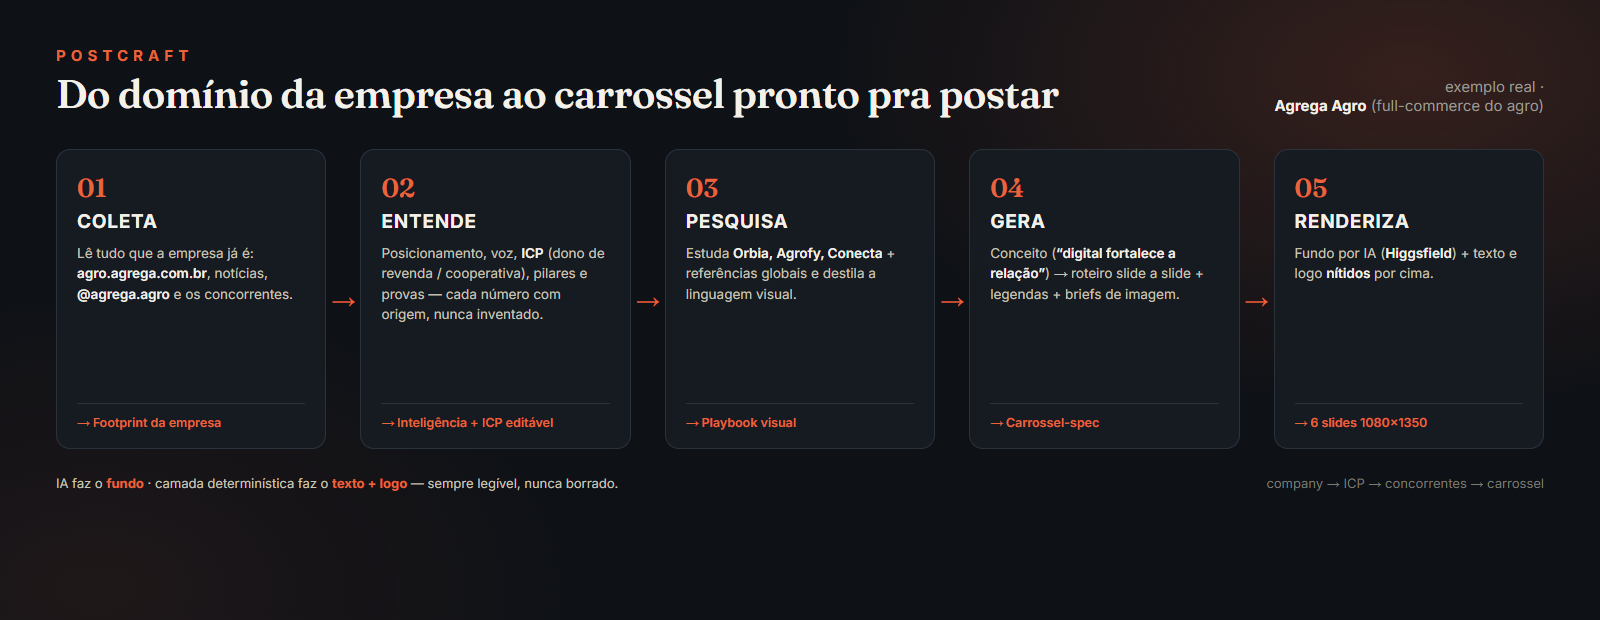
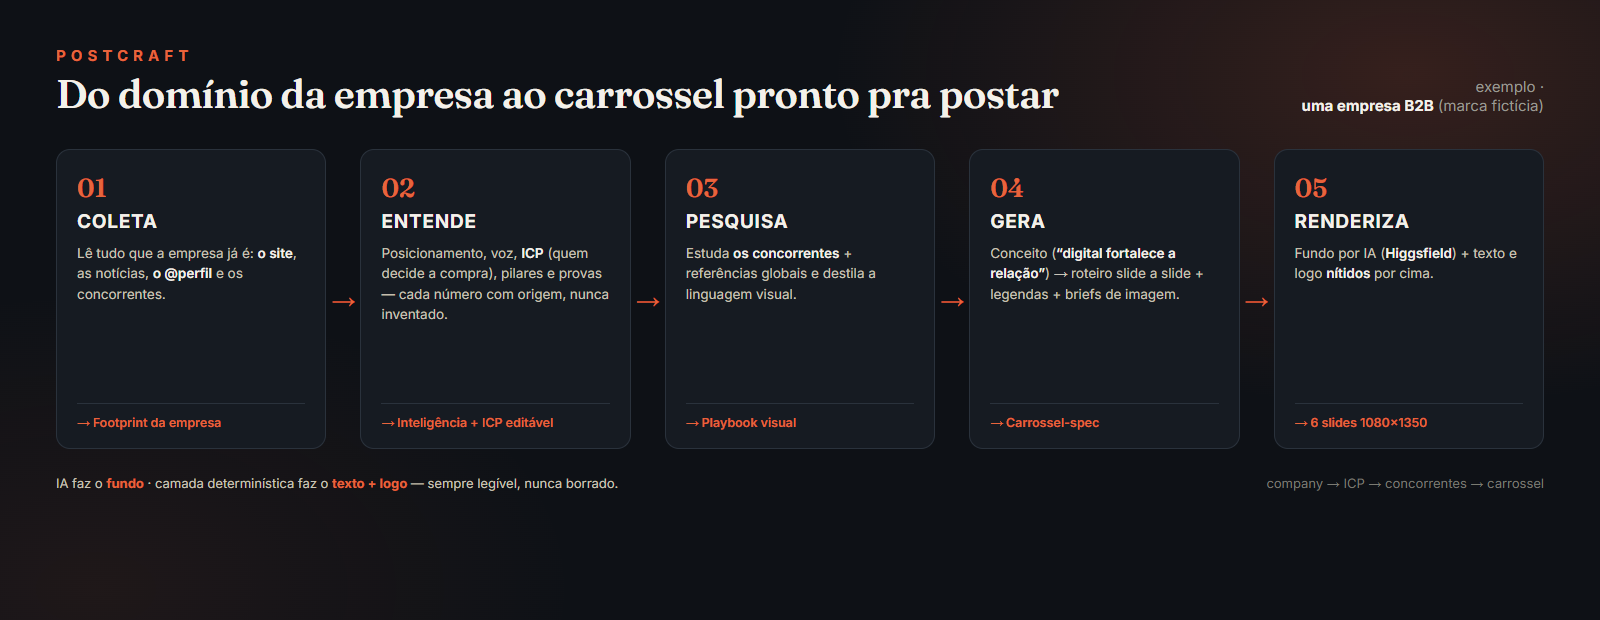
chore: de-brand example — marca fictícia (Campo Vivo) no lugar do cliente real; remove Agrega/Luft do repo público
- examples/demo.spec.json (genérico) substitui agrega-agro.spec.json
- samples + capa-fluxograma regenerados sem marca/logo do cliente
- README/landing/skill/docs genericizados

diff --git a/docs/_flow.html b/docs/_flow.html
@@ -28,25 +28,25 @@
       <div class="kick">POSTCRAFT</div>
       <h1>Do domínio da empresa ao carrossel pronto pra postar</h1>
     </div>
-    <div class="ex">exemplo real ·<br><b>Agrega Agro</b> (full-commerce do agro)</div>
+    <div class="ex">exemplo ·<br><b>uma empresa B2B</b> (marca fictícia)</div>
   </div>
 
   <div class="flow">
     <div class="card">
       <div class="num">01</div><div class="stage">COLETA</div>
-      <div class="desc">Lê tudo que a empresa já é: <b>agro.agrega.com.br</b>, notícias, <b>@agrega.agro</b> e os concorrentes.</div>
+      <div class="desc">Lê tudo que a empresa já é: <b>o site</b>, as notícias, <b>o @perfil</b> e os concorrentes.</div>
       <div class="out">→ Footprint da empresa</div>
     </div>
     <div class="arrow">→</div>
     <div class="card">
       <div class="num">02</div><div class="stage">ENTENDE</div>
-      <div class="desc">Posicionamento, voz, <b>ICP</b> (dono de revenda / cooperativa), pilares e provas — cada número com origem, nunca inventado.</div>
+      <div class="desc">Posicionamento, voz, <b>ICP</b> (quem decide a compra), pilares e provas — cada número com origem, nunca inventado.</div>
       <div class="out">→ Inteligência + ICP editável</div>
     </div>
     <div class="arrow">→</div>
     <div class="card">
       <div class="num">03</div><div class="stage">PESQUISA</div>
-      <div class="desc">Estuda <b>Orbia, Agrofy, Conecta</b> + referências globais e destila a linguagem visual.</div>
+      <div class="desc">Estuda <b>os concorrentes</b> + referências globais e destila a linguagem visual.</div>
       <div class="out">→ Playbook visual</div>
     </div>
     <div class="arrow">→</div>

diff --git a/landing/index.html b/landing/index.html
@@ -335,7 +335,7 @@
 <section class="gallery" id="exemplos"><div class="wrap">
   <div class="kicker eyebrow">Saída real do motor</div>
   <h2>Carrosséis gerados de ponta a ponta — não mockups.</h2>
-  <p class="sub">Caso real: <b>Agrega Agro</b> (full-commerce do agronegócio). A partir do site, do ICP e dos concorrentes — cada slide com uma ideia e uma anatomia própria.</p>
+  <p class="sub">Caso real: <b>Campo Vivo</b> (full-commerce do agronegócio). A partir do site, do ICP e dos concorrentes — cada slide com uma ideia e uma anatomia própria.</p>
   <div class="grid-imgs">
     <img src="assets/sample-cover.png" alt="Capa" />
     <img src="assets/sample-mirror.png" alt="Problema" />

diff --git a/src/carousel/grammar.ts b/src/carousel/grammar.ts
@@ -1,7 +1,7 @@
 /**
  * Carousel grammar — the visual IP, generalized.
  *
- * The agrega-content-engine proved 6 fixed slide anatomies (capa, espelho,
+ * The o motor predecessor proved 6 fixed slide anatomies (capa, espelho,
  * checklist, stat, quote, cta). This file lifts that into a reusable registry
  * of slide ARCHETYPES plus NARRATIVE RECIPES (ordered archetype sequences for
  * common post shapes). The GENERATE stage picks a recipe and fills each

diff --git a/src/prompts/generate.ts b/src/prompts/generate.ts
@@ -5,7 +5,7 @@
  *  2) buildCarouselPrompt  → one CarouselSpec for a chosen concept, with
  *     per-slide archetypes + filled slots + per-slide image briefs.
  *
- * Encodes the agrega-content-engine laws, generalized:
+ * Encodes the o motor predecessor laws, generalized:
  *  - Cover must "para-scroll" (entertain/prove, not a lukewarm fact).
  *  - The middle must INFORM; every strong claim anchors to a proof asset, else
  *    it's just opinion. No fabricated numbers — only use intel.proofAssets.

diff --git a/src/prompts/understand.ts b/src/prompts/understand.ts
@@ -2,7 +2,7 @@
  * UNDERSTAND prompt — turns a raw company footprint into actionable
  * BrandIntelligence: positioning, voice, ICP(s), content pillars, proof assets.
  *
- * Encodes the hard-won rules from agrega-content-engine, generalized:
+ * Encodes the hard-won rules from o motor predecessor, generalized:
  *  - ICP "verbatim terms": the exact phrases the buyer types/searches.
  *  - Proof provenance classes — never fabricate a number; classify every claim.
  *  - The inform/entertain/prove value axis attached to each pillar.

diff --git a/docs/RESEARCH.md b/docs/RESEARCH.md
@@ -8,7 +8,7 @@ I'll synthesize the six research streams into the decision-grade report.
 
 ## 1. Executive Summary
 
-Build a **Portuguese-native B2B content engine** that ingests a company's full public footprint (website, news, owned social, named competitors), synthesizes an **editable ICP object**, and generates **ICP-tuned visual posts and carousels** where the design craft — not the ingestion — is the headline differentiator. The market splits into four camps that each own one piece: ad-creative engines (AdCreative.ai), generic social generators (Predis.ai), carousel specialists (PostNitro), and writing suites (Jasper). None fuse auto-ingestion + true ICP modeling + per-slide carousel craft + competitor visual research into one loop. Auto-ingestion alone is no longer novel (SocialPost.ai already does website-to-content), so the moat is the **system**: company-intelligence → editable ICP → competitor visual playbook → deterministic per-slide design. Wedge on **B2B agencies** (highest willingness to pay) priced per-brand-workspace + credits, anchored against AdCreative ($39/$249), not $19 schedulers. Beachhead: BR B2B commerce/distribution (the Agrega vertical), billed in BRL via Pix Automático.
+Build a **Portuguese-native B2B content engine** that ingests a company's full public footprint (website, news, owned social, named competitors), synthesizes an **editable ICP object**, and generates **ICP-tuned visual posts and carousels** where the design craft — not the ingestion — is the headline differentiator. The market splits into four camps that each own one piece: ad-creative engines (AdCreative.ai), generic social generators (Predis.ai), carousel specialists (PostNitro), and writing suites (Jasper). None fuse auto-ingestion + true ICP modeling + per-slide carousel craft + competitor visual research into one loop. Auto-ingestion alone is no longer novel (SocialPost.ai already does website-to-content), so the moat is the **system**: company-intelligence → editable ICP → competitor visual playbook → deterministic per-slide design. Wedge on **B2B agencies** (highest willingness to pay) priced per-brand-workspace + credits, anchored against AdCreative ($39/$249), not $19 schedulers. Beachhead: BR B2B commerce/distribution (the BR B2B vertical), billed in BRL via Pix Automático.
 
 ## 2. Competitive Landscape & the 3 Differentiation Wedges We Own
 
@@ -56,7 +56,7 @@ Start on Firecrawl Hobby ($16) + Apify Free/Starter ($29). **Cache and content-h
 **Two-layer architecture:**
 
 - **AI generates the background/texture/hero ONLY (text-free prompts).** Route through **fal.ai** as the single aggregator. Default **FLUX.2 [dev/Turbo]** for photoreal/abstract B2B textures (~$0.008–0.012/MP, accepts exact brand hex). **Recraft V3** ($0.04 raster / $0.08 vector, #1 on text-to-image arena) for clean vector/icon/flat graphics. Reserve **Ideogram 3.0 / Seedream 4.x** only for rare short decorative text accents baked into a hero — never body copy. **Drop Midjourney** — no usable official API; unofficial wrappers risk bans. (sources: fal.ai/pricing, fal.ai/models/fal-ai/flux-2-pro, recraft.ai/blog, 10b.ai/blog/does-midjourney-have-an-api)
-- **A deterministic renderer composites ALL text.** Standardize on an HTML/CSS template rendered at exactly **1080×1350 with deviceScaleFactor=2** (2160×2700 effective) for retina-sharp type. Use **Playwright** for full CSS (grid, complex effects, web fonts) — matches the proven Agrega HTML→PNG pipeline. Use **Satori + resvg** only if moving to serverless/edge (flexbox-only, no `display:grid`). **#1 silent failure: fonts** — embed (base64/local) and `await` font load before screenshot. (sources: github.com/vercel/satori, contentful.com/blog/puppeteer-node-open-graph)
+- **A deterministic renderer composites ALL text.** Standardize on an HTML/CSS template rendered at exactly **1080×1350 with deviceScaleFactor=2** (2160×2700 effective) for retina-sharp type. Use **Playwright** for full CSS (grid, complex effects, web fonts) — matches the proven the proven HTML→PNG pipeline. Use **Satori + resvg** only if moving to serverless/edge (flexbox-only, no `display:grid`). **#1 silent failure: fonts** — embed (base64/local) and `await` font load before screenshot. (sources: github.com/vercel/satori, contentful.com/blog/puppeteer-node-open-graph)
 
 Buy-vs-build for the template layer: Templated.io ($29/mo, 1k renders, Canva import) or Placid ($15–39/mo) if avoiding Playwright infra. Canva Connect API is gated behind Enterprise — skip unless already there. For Luigi's existing self-hosted pipeline, **stay on HTML→PNG** — cheaper and more controllable. (sources: bannerbear.com/pricing, canva.dev/docs/connect)
 
@@ -94,7 +94,7 @@ Buy-vs-build for the template layer: Templated.io ($29/mo, 1k renders, Canva imp
 
 ## 5. Pricing, Packaging & the 0→1 Wedge
 
-**Wedge:** Lead with **B2B marketing agencies** (and fractional/solo SMMs serving B2B) as the *revenue* wedge — highest willingness to pay (they resell content at $1.5K–$50K/mo), need multi-brand + whitelabel, and validate the per-brand pricing axis. In-house B2B marketers are the *product-fit* wedge. SMBs/solopreneurs are too price-sensitive to anchor 0→1. **One sharp beachhead first: BR B2B commerce/distribution (the Agrega vertical).** (sources: almcorp.com, frase.io/blog)
+**Wedge:** Lead with **B2B marketing agencies** (and fractional/solo SMMs serving B2B) as the *revenue* wedge — highest willingness to pay (they resell content at $1.5K–$50K/mo), need multi-brand + whitelabel, and validate the per-brand pricing axis. In-house B2B marketers are the *product-fit* wedge. SMBs/solopreneurs are too price-sensitive to anchor 0→1. **One sharp beachhead first: BR B2B commerce/distribution (the BR B2B vertical).** (sources: almcorp.com, frase.io/blog)
 
 **Pricing model = hybrid: per-brand-workspace base + usage credits** (85% of companies use usage pricing; credit models grew 126% YoY, but pure usage exposes you to volatile inference costs — the base fee must cover fixed cost so credits are pure margin). Anchor against **AdCreative ($39/$249/$599) and Jasper ($39 Creator)**, NOT $19 schedulers. (sources: data-mania.com, metronome.com, bvp.com/atlas)
 
@@ -111,7 +111,7 @@ Sell credit top-ups (~+1,200 credits / $29). **BR pricing:** Portuguese-native U
 
 **Activation aha (north-star = time-to-first-exported-asset):** paste URL + describe ICP → complete on-brand, ICP-targeted asset set in **<5 minutes**, no manual brand setup. Every 10-min delay to first value costs ~8% conversion; trials convert 15–25% vs 2–5% freemium. (sources: thegood.com, ordwaylabs.com)
 
-**0→1 GTM = founder-led build-in-public + product-as-distribution, NOT paid ads.** Dogfood the engine on Agrega publicly (generate its ICP content as ongoing proof); put a subtle "made with [product]" footer on free-tier exports (every shared asset = a distribution loop); land first 10–20 paying agencies via warm BR B2B outreach → case studies → open self-serve. (sources: ainativegtm.substack.com, definerbrands.com)
+**0→1 GTM = founder-led build-in-public + product-as-distribution, NOT paid ads.** Dogfood the engine on your own brand publicly (generate its ICP content as ongoing proof); put a subtle "made with [product]" footer on free-tier exports (every shared asset = a distribution loop); land first 10–20 paying agencies via warm BR B2B outreach → case studies → open self-serve. (sources: ainativegtm.substack.com, definerbrands.com)
 
 **Defensibility:** make the **per-brand ICP + brand-knowledge memory the moat** — the longer a customer's ICP lives in the system and learns from outputs, the higher the switching cost. Competitors copy a feature, not your accumulated ICP knowledge graph. (source: m1-project.com)
 
@@ -129,7 +129,7 @@ Sell credit top-ups (~+1,200 credits / $29). **BR pricing:** Portuguese-native U
 
 6. **Crowded, feature-converging market — a thin differentiator is copied in one release cycle.** → Ship the *system* (ingestion → ICP → competitor visual research → per-slide craft as one loop) + accumulating per-brand ICP memory as switching cost. Speed-to-localized-BR-niche is the durable defense a solo founder can hold vs AdCreative/Jasper out-resourcing a single feature.
 
-7. **PPP/BRL arbitrage + narrow-beachhead TAM risk + founder-time concentration.** → Geo-gate Pix/BRL tier to BR (IP/billing checks). Prove the Agrega vertical, then validate expansion adjacency early before TAM assumptions calcify. Engineer distribution into the product (free-tier footer loop) so growth isn't fully bottlenecked on founder audience.
+7. **PPP/BRL arbitrage + narrow-beachhead TAM risk + founder-time concentration.** → Geo-gate Pix/BRL tier to BR (IP/billing checks). Prove the BR B2B vertical, then validate expansion adjacency early before TAM assumptions calcify. Engineer distribution into the product (free-tier footer loop) so growth isn't fully bottlenecked on founder audience.
 
 ## 7. Prioritized MVP Feature List (must-have to charge money)
 

diff --git a/docs/SELLING.md b/docs/SELLING.md
@@ -13,7 +13,7 @@ Vender SaaS self-serve agora exige multi-tenant, billing, onboarding — semanas
 ## Quem compra (wedge)
 
 1. **Agências B2B / social** — maior disposição a pagar, rodam várias marcas, sentem a dor de "carrossel genérico" na pele. **Alvo primário.** Vende white-label.
-2. **Indústrias/distribuidores B2B BR** (ecossistema Agrega/Luft) — já no teu network, ICP nítido, frete/margem/operação como pauta.
+2. **Indústrias/distribuidores B2B BR** (seu network B2B) — já no teu network, ICP nítido, frete/margem/operação como pauta.
 3. **Founders D2C/SaaS em escala** — querem presença sem montar time de conteúdo.
 
 Comece pelo (1) e (2): é onde você tem rede e prova.
@@ -35,7 +35,7 @@ Margem: custo de API por kit é de centavos a poucos reais (ver `docs/OPERATING.
 
 O fechamento é o **carrossel de teste grátis** — ele prova a qualidade antes de qualquer pitch.
 
-1. **Prospecção.** Liste 20 alvos/semana: marcas do ecossistema Agrega, agências B2B, indústrias que postam mal no IG/LinkedIn. Sinais de compra: postam pouco/genérico, têm site bom mas feed fraco, lançaram algo recente.
+1. **Prospecção.** Liste 20 alvos/semana: marcas do ecossistema B2B, agências B2B, indústrias que postam mal no IG/LinkedIn. Sinais de compra: postam pouco/genérico, têm site bom mas feed fraco, lançaram algo recente.
 2. **Abordagem (DM/e-mail).** Oferta única: "manda o domínio, devolvo 1 carrossel na tua marca em 48h, sem custo". Script abaixo.
 3. **Rodar o motor.** Pegou o domínio → rode o pipeline (`docs/OPERATING.md`). Em modo live (keys) ou, se faltar key, harvest manual + motor. Saída em <48h.
 4. **Entregar o teaser.** Mande os 6 slides + a tese do ICP por trás ("é isso que o teu comprador quer ler porque..."). O teaser JÁ demonstra a inteligência, não só a arte.
@@ -67,7 +67,7 @@ O fechamento é o **carrossel de teste grátis** — ele prova a qualidade antes
 - **Outbound founder-led** (DM/e-mail) — principal no 0→1.
 - **LinkedIn orgânico** — poste os próprios carrosséis da Postcraft (dogfooding = prova viva).
 - **Landing** (`landing/index.html`) — asset de conversão; CTA = e-mail do teaser.
-- **Network Agrega/Luft** — primeiros casos.
+- **Network B2B próprio** — primeiros casos.
 
 ## Métricas (semanais)
 

diff --git a/skills/postcraft/SKILL.md b/skills/postcraft/SKILL.md
@@ -29,7 +29,7 @@ Produza, ancorado SÓ no que coletou: posicionamento, voz, **ICP** (dores, desej
 Estude 2-3 concorrentes (sites/Instagram) → playbook visual: anatomia, paleta (hex reais da marca), tipografia, do/don't. Identifique o território vago que a marca pode ocupar.
 
 ### ④ GERA
-Escolha a receita (ex.: `thesis` = capa·espelho·contexto·stat·quote·cta) e escreva um **`carousel-spec.json`** no contrato do repo (ver `examples/agrega-agro.spec.json`). Regras:
+Escolha a receita (ex.: `thesis` = capa·espelho·contexto·stat·quote·cta) e escreva um **`carousel-spec.json`** no contrato do repo (ver `examples/demo.spec.json`). Regras:
 - Capa para-scroll; miolo informa; `prova` só com `proofAsset` real.
 - Marcadores: `{palavra}` = destaque, `|` = quebra de linha.
 - 1 `image.prompt` por slide: objeto/cena que casa com o copy, **claro/luminoso, autêntico ao contexto** (ex.: agro BR = soja Cerrado, etnia local, máquinas reais, fauna regional), na paleta da marca, **SEM TEXTO**; `negativePrompt` banindo texto/logo/watermark.
@@ -38,7 +38,7 @@ Escolha a receita (ex.: `thesis` = capa·espelho·contexto·stat·quote·cta) e 
 ### ⑤ RENDERIZA
 1. **Fundos:** pra cada slide, `higgsfield generate_image` (`nano_banana_pro`, 4:5, "ABSOLUTELY NO TEXT") → poll `job_status sync:true` → baixe pra `runs/<marca>/assets/bg-N.png`. (Sem Higgsfield/fal → o fixture gera gradiente.)
 2. **Render:** `cd $POSTCRAFT_DIR && tsx examples/render-spec.ts <spec.json> "<Marca>" runs/<marca> <logo.png>` — compõe texto + logo nítidos sobre os fundos → `slide-1..6.png` 1080×1350.
-3. Gere uma folha de contato HTML e abra pro usuário (ver `runs/agrega-agro/view.html` como molde).
+3. Gere uma folha de contato HTML e abra pro usuário (ver `runs/demo/view.html` como molde).
 
 ### GATE humano
 Mostre os 6 slides + as legendas. Ajuste de copy = editar o spec e re-renderizar (segundos, sem gastar crédito — o render-spec **reusa** fundos existentes).
@@ -52,6 +52,6 @@ Mostre os 6 slides + as legendas. Ajuste de copy = editar o spec e re-renderizar
 
 ## Referência
 - Contrato do spec + tipos: `src/types.ts` · gramática de slides: `src/carousel/grammar.ts`
-- Exemplo real completo: `examples/agrega-agro.spec.json` (+ `runs/agrega-agro/`)
+- Exemplo real completo: `examples/demo.spec.json` (+ `runs/demo/`)
 - Render isolado: `examples/render-spec.ts <spec> "<Marca>" <out> [logo]`
 - Pipeline automatizado (com keys no `.env`): `npm run cli -- run --domain <d> --instagram @x --competitors "@a,@b"`

diff --git a/docs/ARCHITECTURE.md b/docs/ARCHITECTURE.md
@@ -57,14 +57,14 @@ No headless browser → runs on serverless. Brand consistency is deterministic, 
 
 ## The visual IP
 
-`carousel/grammar.ts` generalizes the agrega 6-anatomy system into:
+`carousel/grammar.ts` generalizes a predecessor 6-anatomy system into:
 - **Archetypes** (`cover`, `mirror`, `context`, `list`, `stat`, `step`, `comparison`, `quote`, `takeaway`, `cta`) — each with named text slots.
 - **Recipes** (`thesis`, `listicle`, `howto`, `case`, `comparison`) — ordered archetype sequences.
 - `describeGrammarForPrompt()` injects the grammar into the GENERATE prompt so the LLM emits slides that map 1:1 to layouts.
 
 ## Renderer gotcha (documented)
 
-satori-html mis-parses a truly-empty `<div></div>` (it inflates the parent's child count → "needs display:flex"). **Every decorative empty div must carry `display:flex`.** See `scripts/probe5.mjs`.
+satori-html mis-parses a truly-empty `<div></div>` (it inflates the parent's child count → "needs display:flex"). **Every decorative empty div must carry `display:flex`** — enforced globally by `fixEmptyDivs` in `renderer/satori.ts`.
 
 ## Extension points
 

diff --git a/docs/PRODUCT.md b/docs/PRODUCT.md
@@ -27,7 +27,7 @@ Two axes are weak across the **whole field**: real ICP targeting and per-slide c
 
 ## Who buys (wedge)
 
-**B2B agencies and B2B social/content marketers** — highest willingness to pay, run many brands, feel the carousel-craft pain acutely. Beachhead: **BR B2B commerce/distribution** (the Agrega vertical) where a Portuguese-first, ICP-aware tool has a real local opening before global players localize depth.
+**B2B agencies and B2B social/content marketers** — highest willingness to pay, run many brands, feel the carousel-craft pain acutely. Beachhead: **BR B2B commerce/distribution** (the BR B2B vertical) where a Portuguese-first, ICP-aware tool has a real local opening before global players localize depth.
 
 ## Pricing & packaging (recommendation)
 
@@ -40,7 +40,7 @@ Two axes are weak across the **whole field**: real ICP targeting and per-slide c
 
 ## 0→1 motion
 
-1. Dogfood on Agrega + 3–5 friendly BR B2B brands; publish the carousels, collect proof.
+1. Dogfood on your own brand + 3–5 friendly BR B2B brands; publish the carousels, collect proof.
 2. Wedge into agencies with a "1 brand free kit" demo (the engine already runs zero-key for the sample).
 3. Charge at the agency tier first (clearest ROI), expand down to in-house marketers.
 

diff --git a/docs/ROADMAP.md b/docs/ROADMAP.md
@@ -10,8 +10,8 @@
 
 ## v0.2 — Real output you'd trust (validate live)
 - [ ] Verify each live adapter against current provider docs; add a 10-item Apify pilot gate.
-- [ ] Run on 5 real brands (incl. an Agrega vertical) end-to-end with keys.
-- [ ] **Quality gates** (port from agrega-content-engine):
+- [ ] Run on 5 real brands (incl. an vertical B2B BR) end-to-end with keys.
+- [ ] **Quality gates** (port from o motor predecessor):
   - fact-check gate (proof provenance enforced before a number ships),
   - text-only dry-run preview (render copy before paying for images),
   - optional human approve hook between stages.